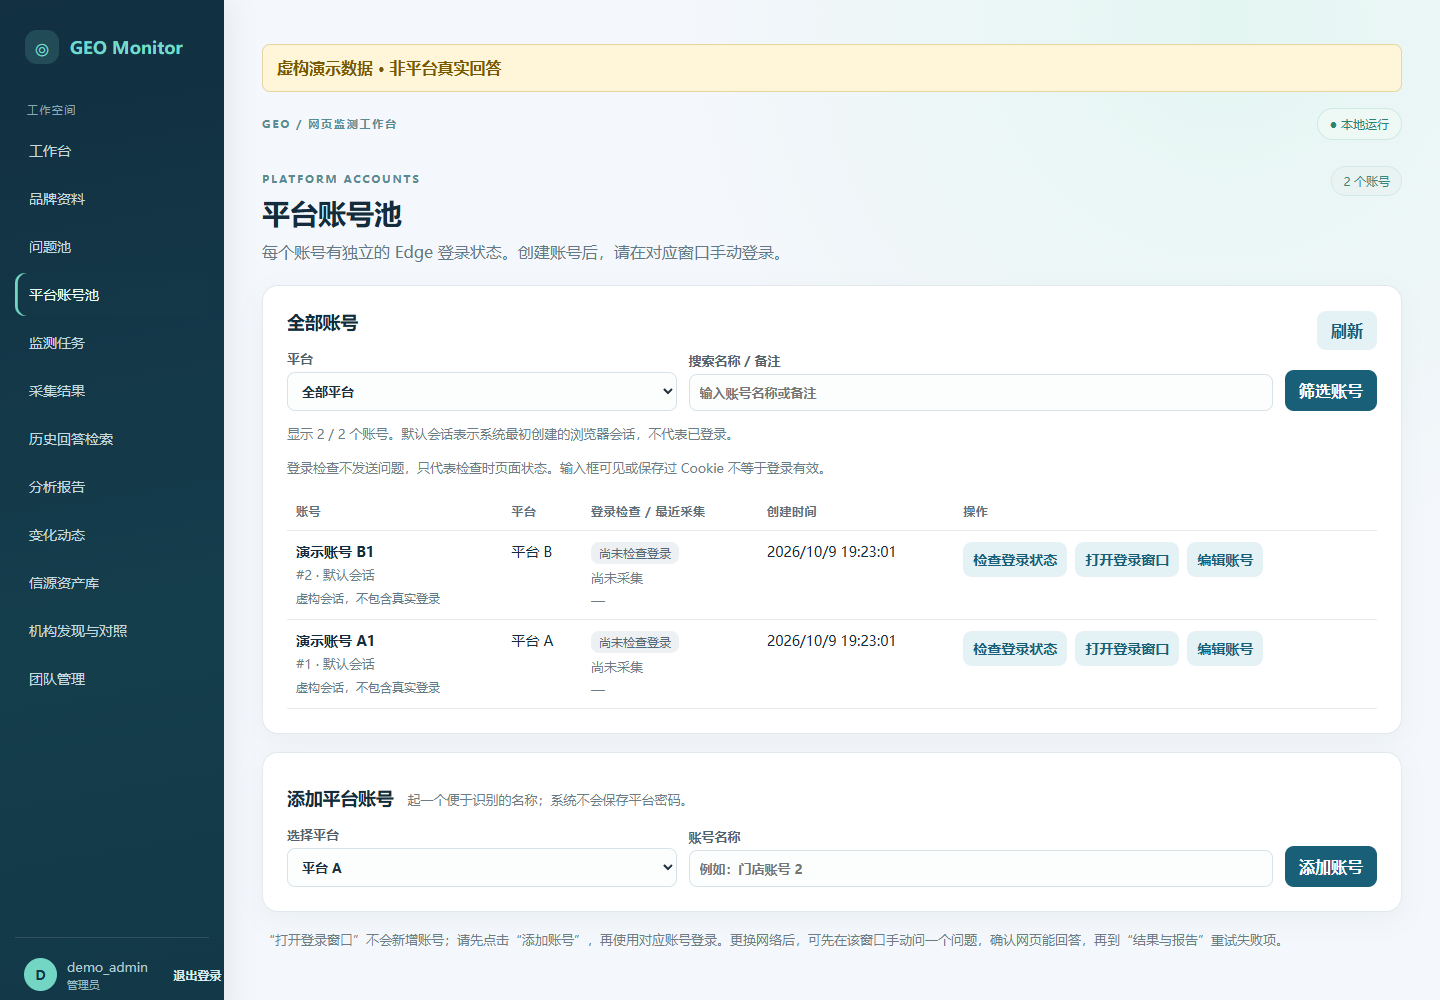
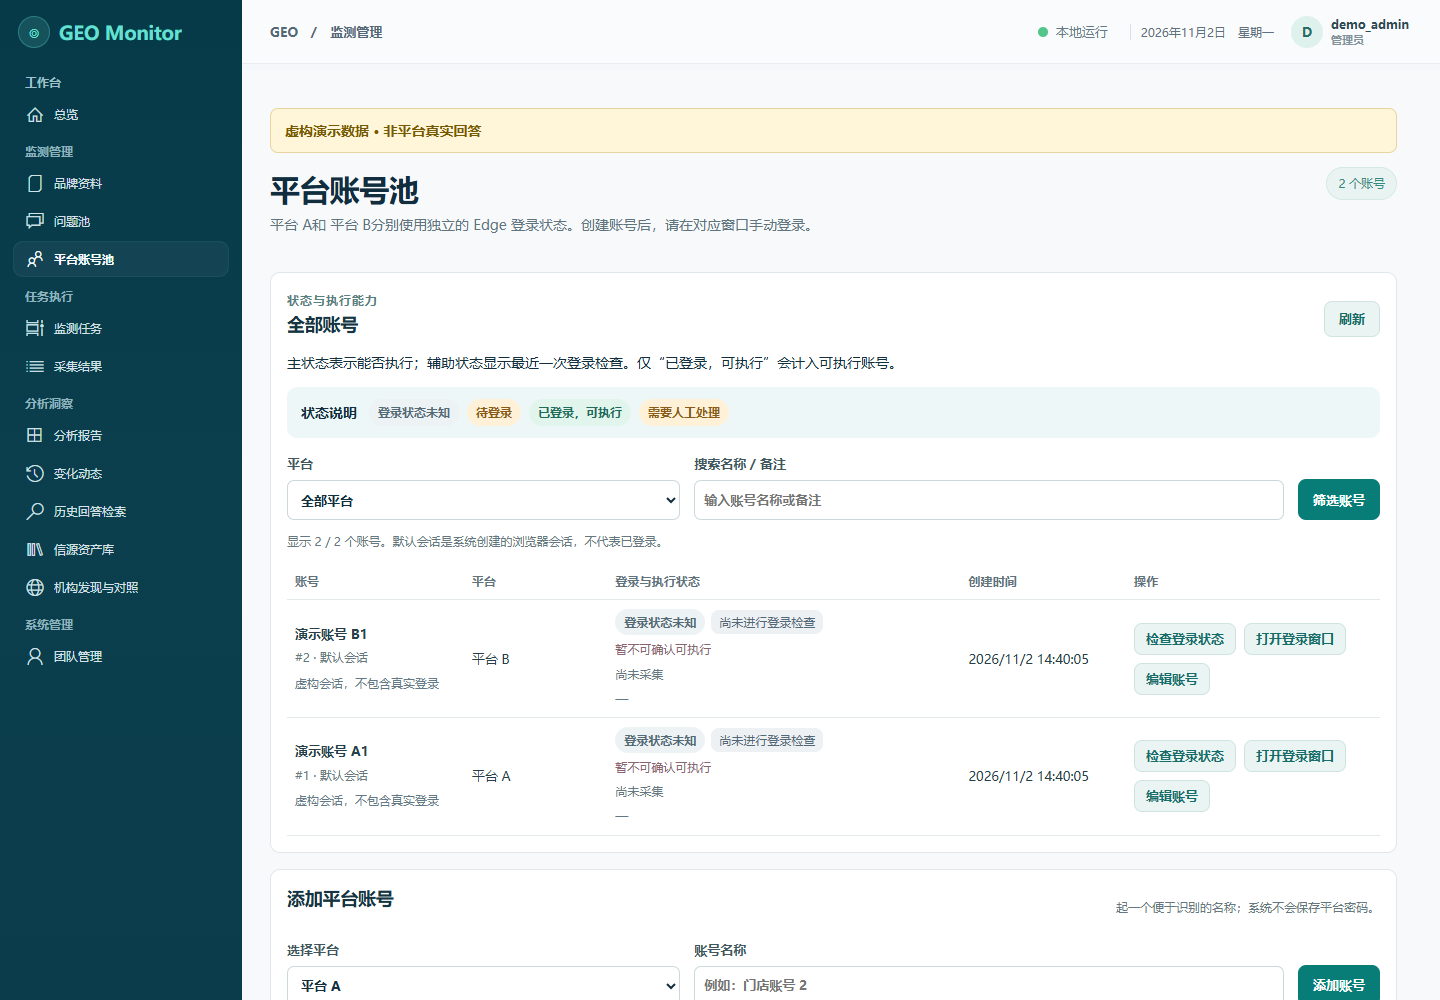
Refresh fictional demo screenshots

diff --git a/docs/demo.md b/docs/demo.md
@@ -4,6 +4,8 @@ README 与分享素材全部由 `npm run media:demo` 生成。脚本启动隔离
 
 不会读取现有 data、profiles、results，不连接两个主流中文 AI 网页版，也不发送真实问题。临时演示管理员凭证只用于该临时进程，退出后不属于任何真实账号。
 
-输出：`docs/assets/overview.png`、`accounts.png`、`run-selection.png`、`report.png`。这些截图只演示软件界面，不证明 AI 平台效果。对应数据在界面中标注“虚构演示 / 模拟回答”。
+输出：`docs/assets/overview.png`、`accounts.png`、`run-selection.png`、`report.png`，分别展示工作台、账号池、运行选择和采集结果/人工复核。截图由当前应用版本重新生成，只演示软件界面，不证明 AI 平台效果。
+
+截图专用处理会把平台名称显示为“平台 A / B”，并添加虚构数据提示；这是公开演示素材的标注，不改变实际应用的页面配置或源码中的平台适配信息。
 
 拍摄视频可采用：工作台 → 品牌资料 → 问题池 → 账号池 → 选择问题与账号 → 结果与来源。真实平台登录、手机号、验证码、客户资料和私有浏览器标签不应出现在公开视频里。

diff --git a/README.md b/README.md
@@ -46,6 +46,10 @@ pnpm 用户可用 `pnpm install --frozen-lockfile`、`pnpm doctor`、`pnpm start
 
 ![虚构数据演示：选择本次问题和账号](docs/assets/run-selection.png)
 
+![虚构数据演示：平台账号池](docs/assets/accounts.png)
+
+![虚构数据演示：采集结果、报告与人工复核](docs/assets/report.png)
+
 ## 怎样理解结果
 
 - 名称出现不等于推荐、认可或排名。主动提及率以不含我方品牌名称的推荐类有效回答为分母；失败、空正文和已知重复归属不当作品牌未提及。
